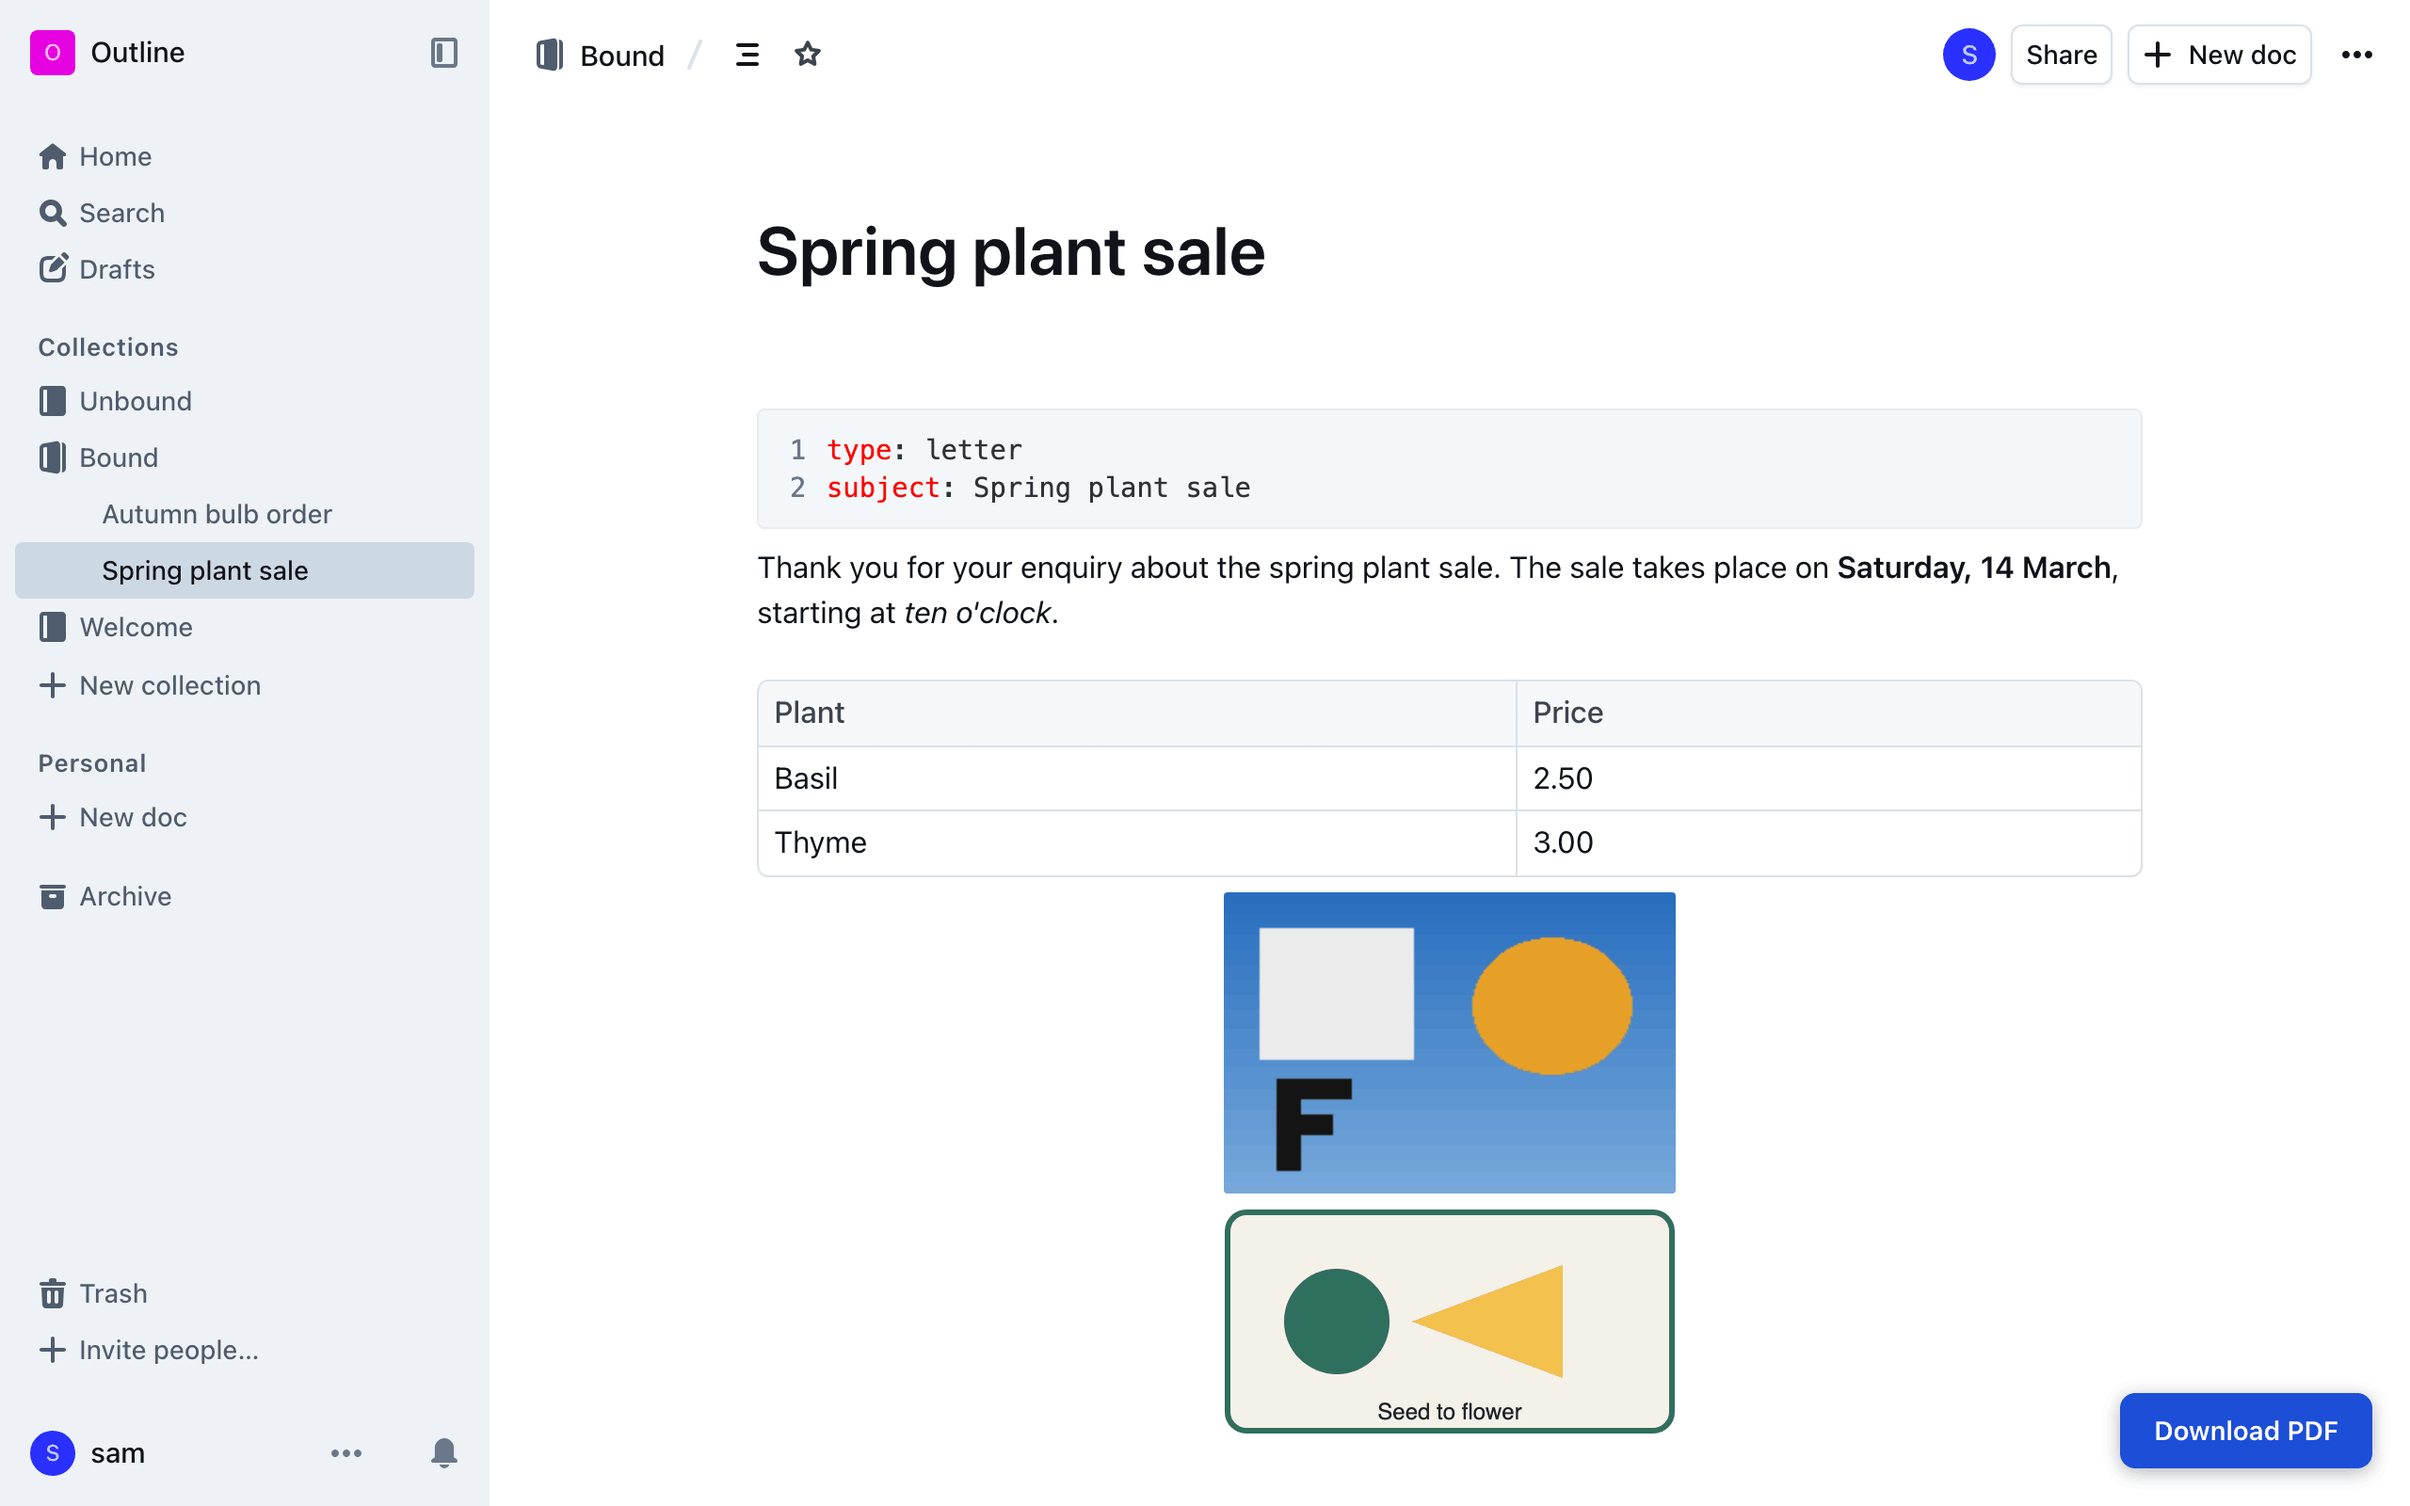
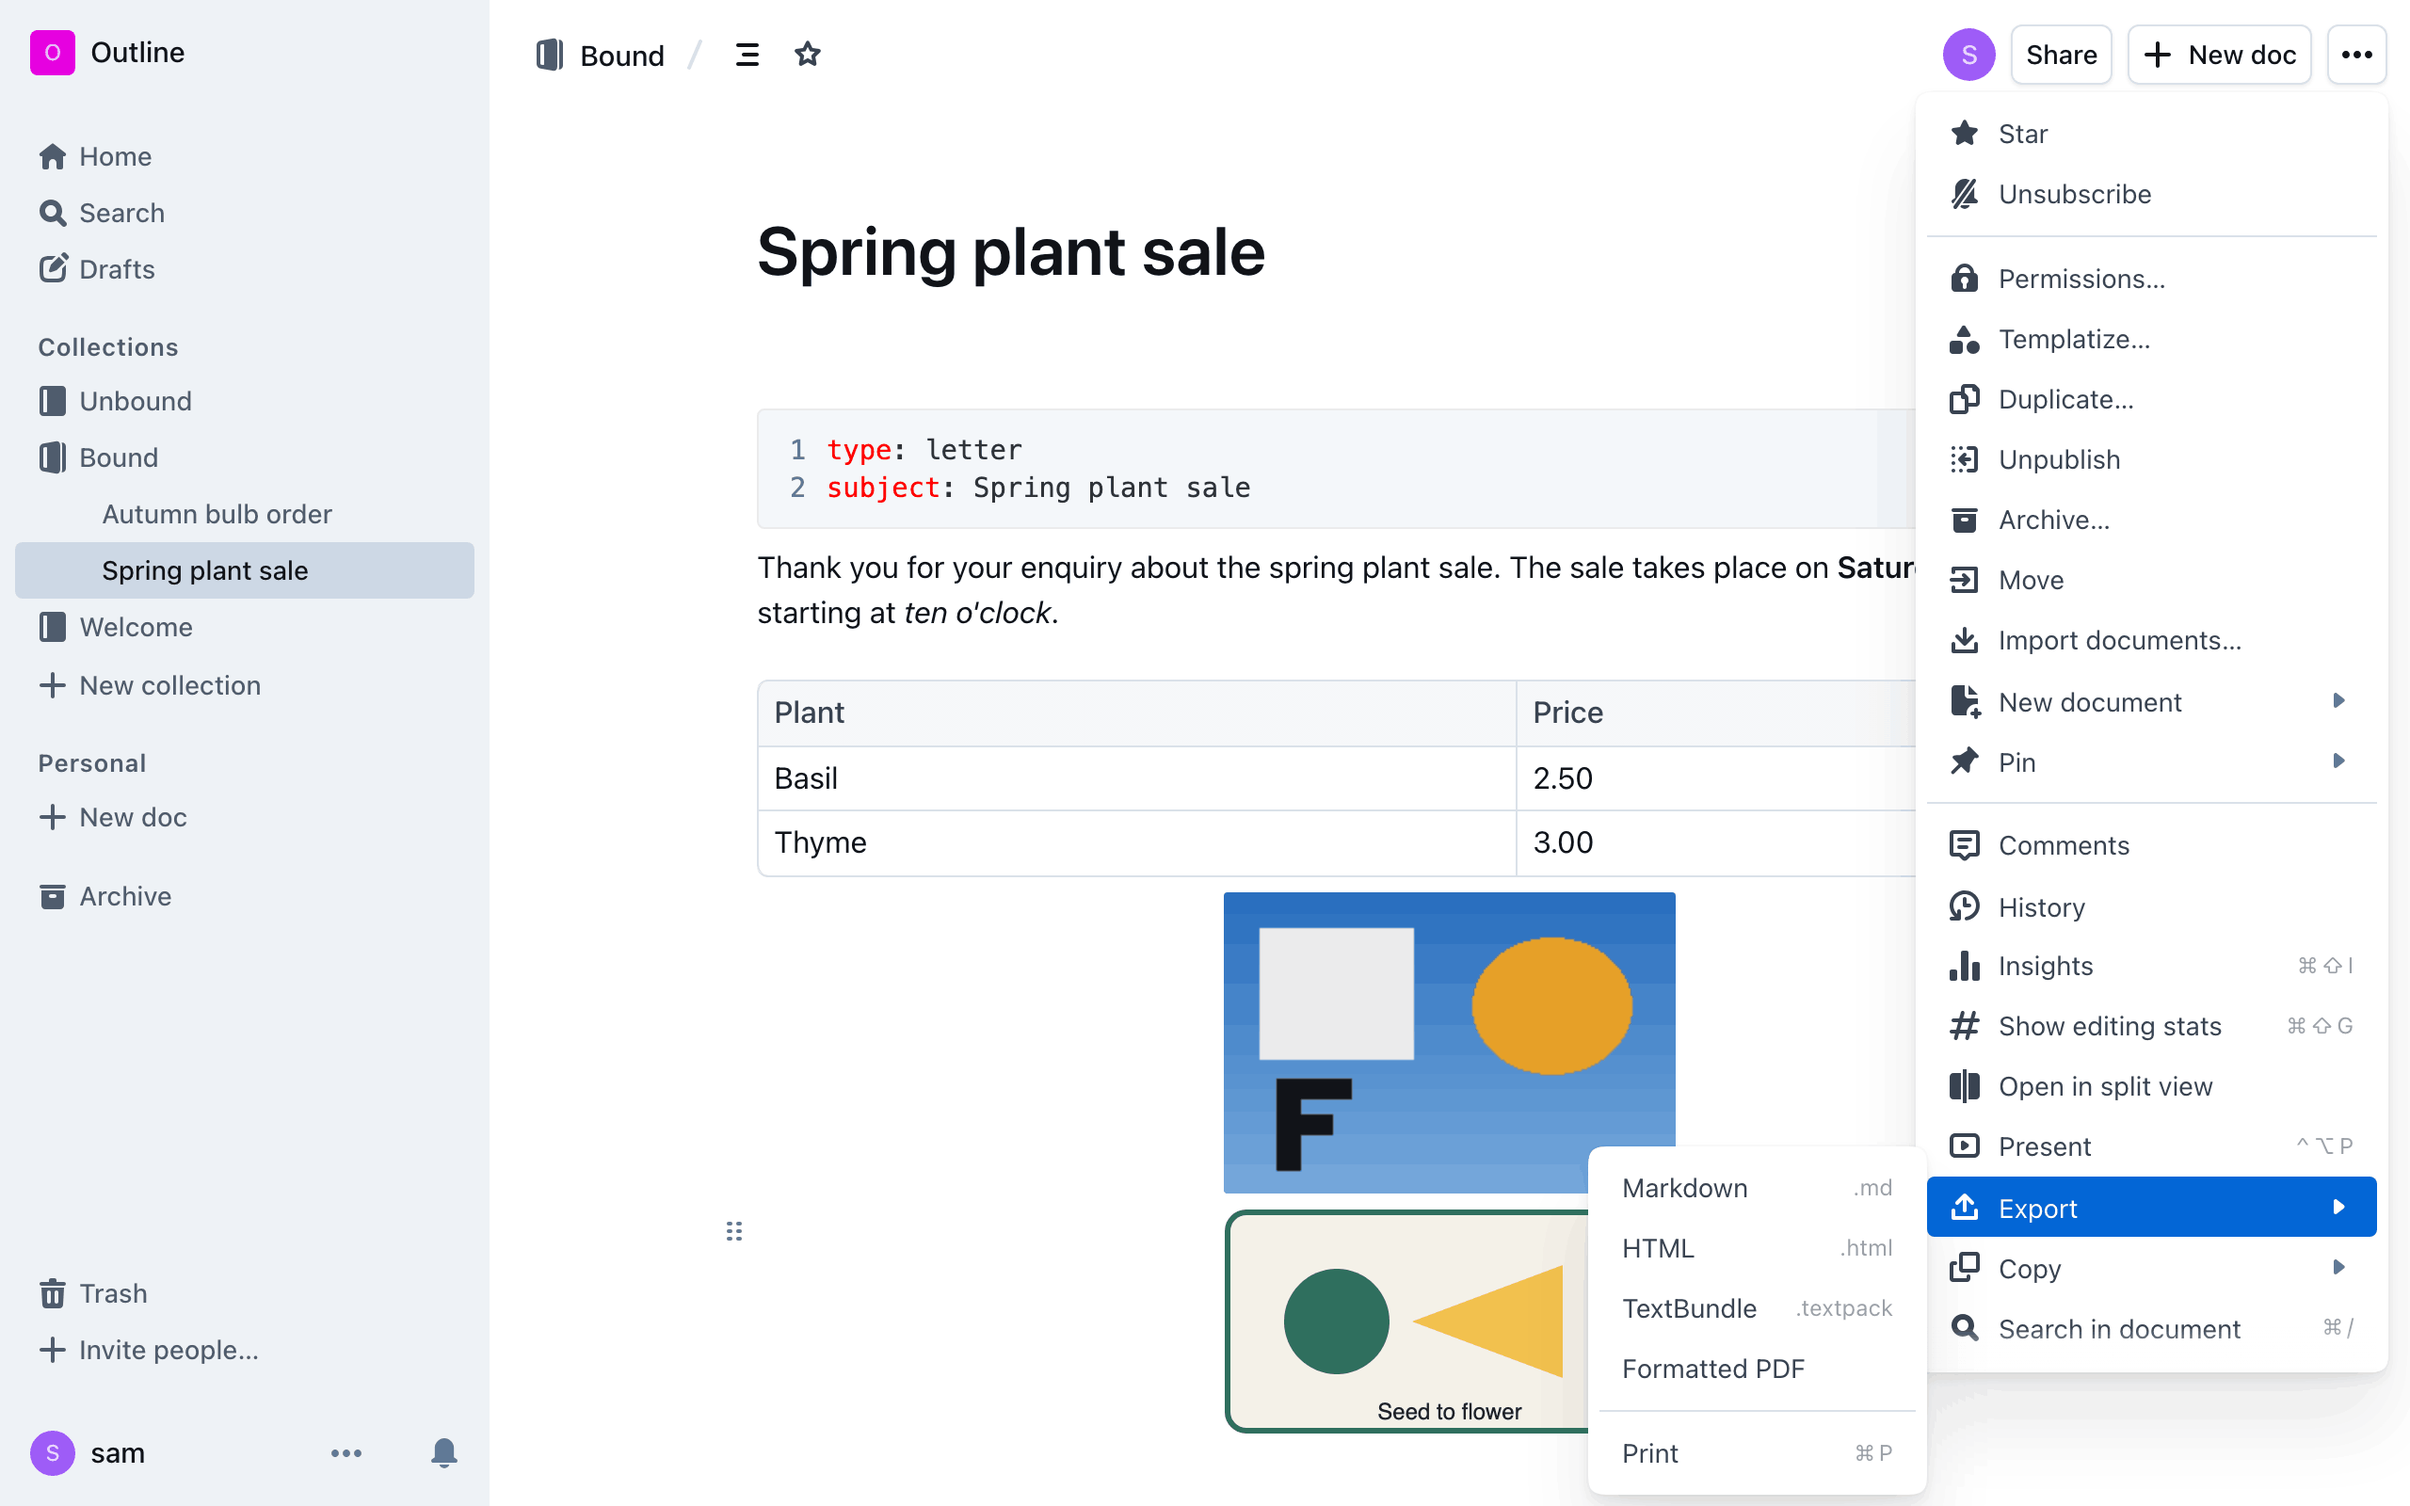
feat: regenerate screenshots, track busy per document, test the oldest Outline
Show the open Export menu in the documentation screenshots and use the
formatted PDF in the user pages. A render that is still running for one
document no longer blocks the action on another. Add OUTLINE_OLDEST_IMAGE
and an e2e job for it, skipped while it equals the pinned version.

diff --git a/web/button.js b/web/button.js
@@ -323,6 +323,7 @@
     lastShown: null,
     token: 0,
     busy: false,
+    busyId: null,
     base: DEFAULT_BASE,
     options: parseOptions(function () { return null; }),
     language: FALLBACK_LANGUAGE,
@@ -497,7 +498,7 @@
   }
 
   function startDownload(anchor) {
-    if (state.busy || !state.id) return;
+    if (!state.id || (state.busy && state.busyId === state.id)) return;
     state.panelAnchor = anchor;
     download(state.id);
   }
@@ -835,6 +836,7 @@
 
   function download(id) {
     dismissPanel();
+    state.busyId = id;
     setBusy(true);
     if (!document.getElementById(BUTTON_ID) && !document.querySelector('.olp-header-button')) showBusyPanel();
     fetch(state.base + '/render/' + encodeURIComponent(id), { credentials: 'same-origin', cache: 'no-store' })
@@ -850,7 +852,8 @@
         });
       })
       .catch(function () { report(id, { status: 0, retryAfter: null, body: null }); })
-      .then(function () { setBusy(false); });
+      // A render of another document may have started since: leave its state alone.
+      .then(function () { if (state.busyId === id) setBusy(false); });
   }
 
   function report(id, response) {

diff --git a/e2e/screenshots/screens.spec.ts b/e2e/screenshots/screens.spec.ts
@@ -2,7 +2,7 @@ import { execFileSync } from 'node:child_process';
 import { mkdirSync, rmSync } from 'node:fs';
 import { join, resolve } from 'node:path';
 import { expect, test, type Page } from '@playwright/test';
-import { chooseFormattedPdf, MENU_LABEL, openExportSubmenu } from '../support/placement';
+import { chooseFormattedPdf, MENU_LABEL, openExportSubmenu, useLocalScript } from '../support/placement';
 import { loadSeed } from '../support/seed';
 
 // Generates the screenshots of the Outline UI used by the documentation, from
@@ -121,6 +121,7 @@ function firstPageToPng(pdfPath: string, pngPath: string): void {
 }
 
 test('screenshots of the Outline UI for the documentation', async ({ page }) => {
+  await useLocalScript(page);
   rmSync(RAW_DIR, { recursive: true, force: true });
   mkdirSync(RAW_DIR, { recursive: true });
   await signIn(page);

diff --git a/docs/deploy/compatibility.md b/docs/deploy/compatibility.md
@@ -13,6 +13,7 @@ change that markup. This page says which versions have been checked.
 |---------|----------|--------|
 | 1.12.0 | development (no release yet) | **tested** on every change to the injector, the script and the browser tests; this is the version pinned in `deploy/dev/versions.env` |
 | newest stable release | development | **tested weekly**, not blocking; a failure opens an issue |
+| 1.12.0 (`OUTLINE_OLDEST_IMAGE`) | development | the **oldest supported** version; the same tests run against it in CI once it differs from the pin |
 | older than 1.12.0 | | **untested** |
 
 "Tested" means the browser tests pass: the **Export → Formatted PDF** entry and

diff --git a/docs/write/download-a-pdf.md b/docs/write/download-a-pdf.md
@@ -13,6 +13,8 @@ Open any document in your Collection. If the Collection is set up for PDFs, the
 **Export** menu has a **Formatted PDF** item. Open the **…** menu at the top right
 of the document, then **Export**.
 
+![A document in Outline with the Export menu open and Formatted PDF in it](../assets/screens/bound-document-with-button.png)
+
 Your admin may have put the action in a button before **Share** instead. It does
 the same.
 
